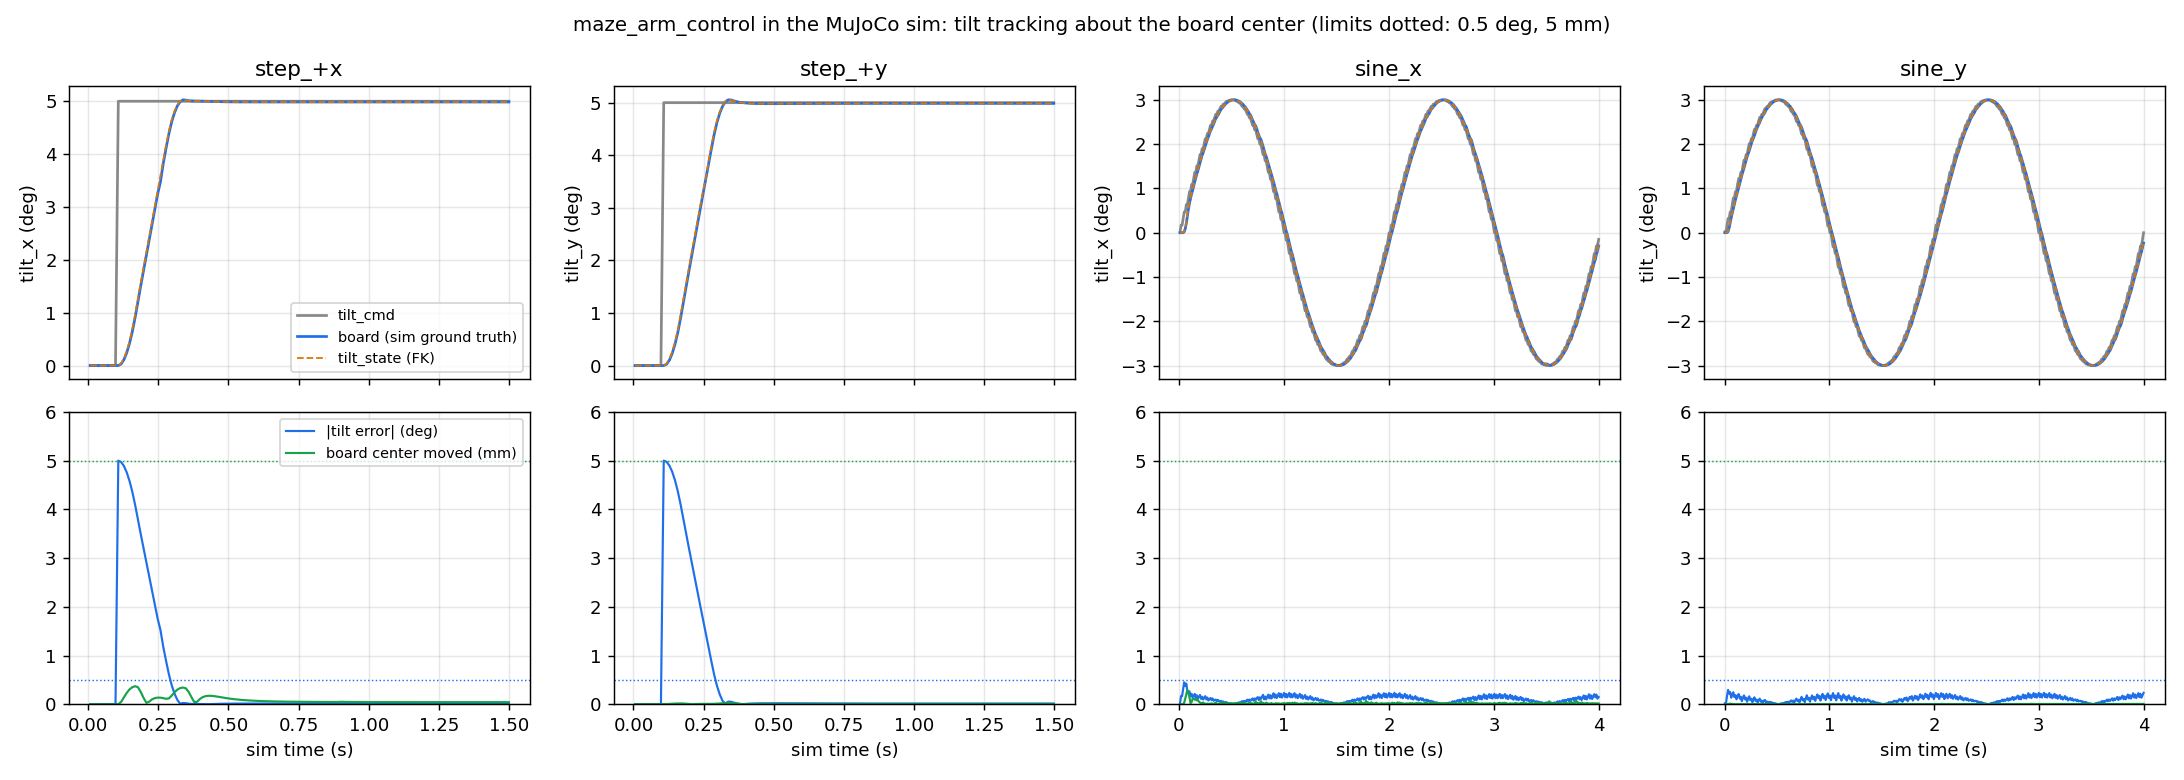
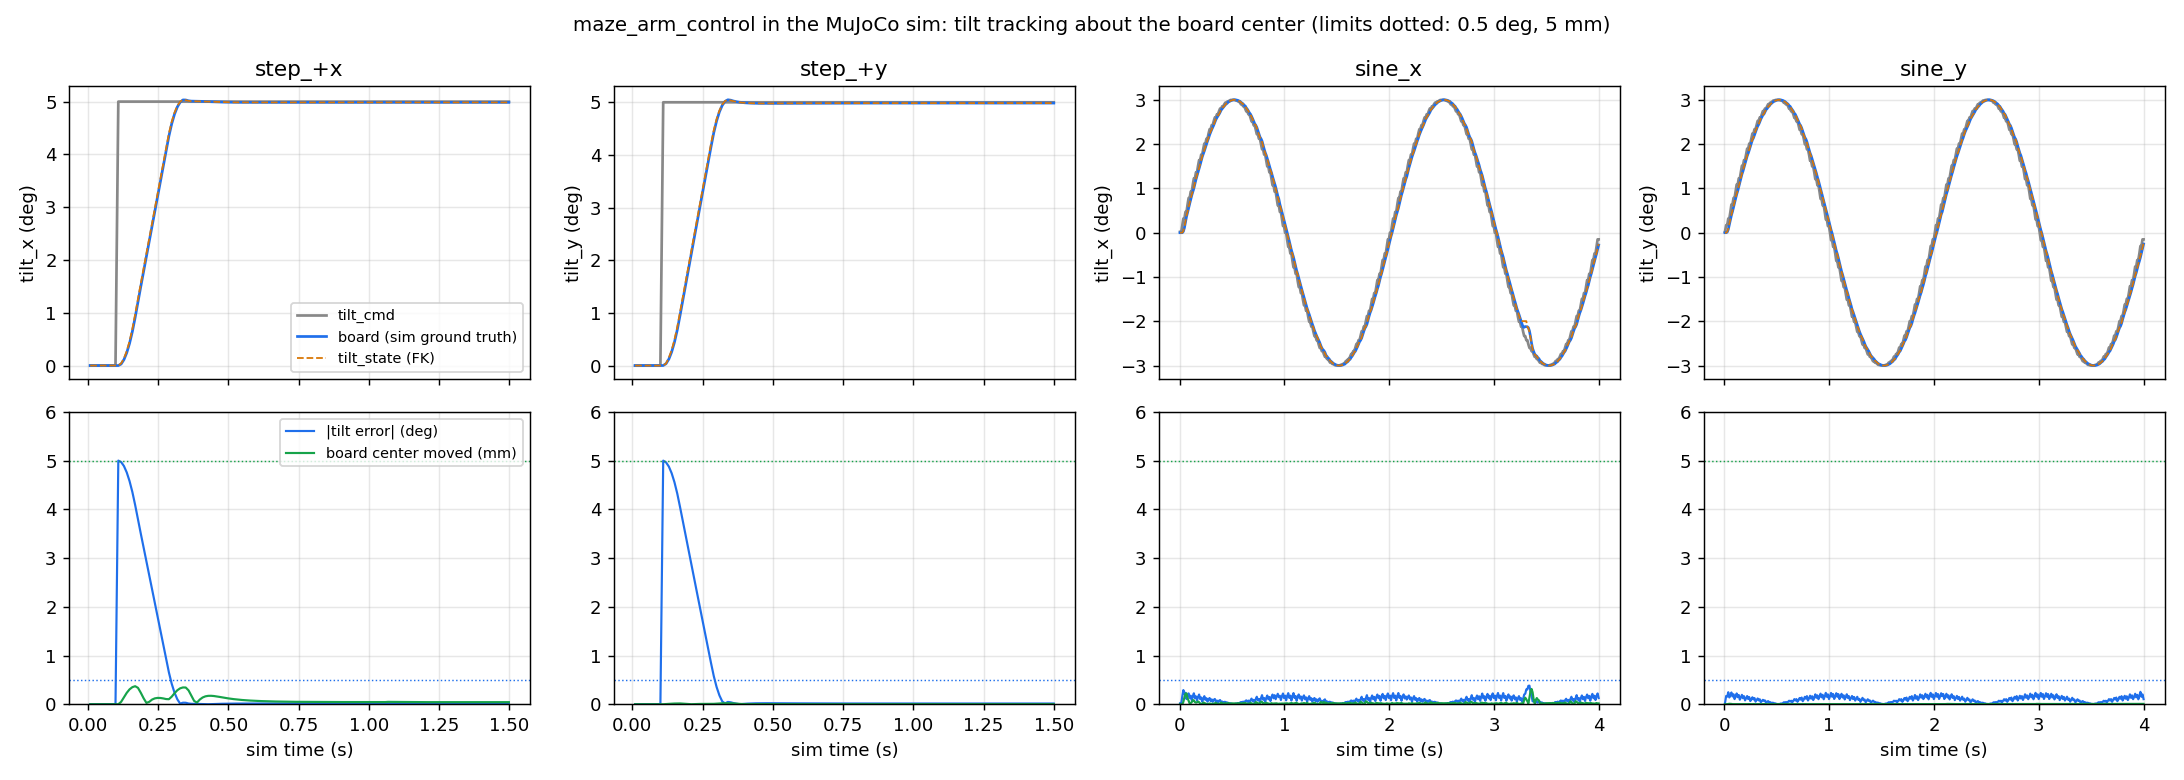
[arm] maze_arm_control: fixes from the whole-branch review
- resync starts the reference inside max_tilt (it could start past it and snap back at > 0.5 rad/s)
- the board's angular velocity is capped at the tilt-rate limit about each board axis, so a large
  tilt error is corrected no faster than 0.5 rad/s
- a lost controller_manager reply fails start-up after 5 s (retried while running) instead of
  wedging the node; late replies are dropped
- speed scaling older than 1 s holds the arm; zeros are flushed before exit; no resync log spam
- tests: reset outside the limit, per-axis board rate, lost service reply, a resume after drift

diff --git a/src/maze_arm_control/src/tilt_control_node.cpp b/src/maze_arm_control/src/tilt_control_node.cpp
@@ -18,6 +18,8 @@ const std::vector<std::string> kUrJoints = {
 namespace
 {
 constexpr double kPollPeriod = 1.0;   // s, how often the velocity controller is checked while running
+constexpr double kServiceTimeout = 5.0;  // s, a controller_manager reply later than this counts as lost
+constexpr double kScalingTimeout = 1.0;  // s, a speed scaling value older than this is not trusted
 constexpr double kMaxStepDt = 0.02;   // s, a longer gap between joint states is not integrated over
 constexpr double kDeg = M_PI / 180.0;
 
@@ -104,6 +106,7 @@ TiltControlNode::TiltControlNode(const rclcpp::NodeOptions & options)
   cp.lambda_max = required<double>("dls.lambda_max");
   cp.max_linear_speed = required<double>("twist_cap.linear");
   cp.max_angular_speed = required<double>("twist_cap.angular");
+  cp.max_tilt_rate = rp.max_rate;
   cp.max_joint_speed = to_vec<6>(required<DV>("joint_limits.max_speed"), "joint_limits.max_speed");
   cp.max_joint_accel = to_vec<6>(required<DV>("joint_limits.max_accel"), "joint_limits.max_accel");
   const double cmd_timeout = required<double>("watchdog.command_timeout");
@@ -139,7 +142,10 @@ TiltControlNode::TiltControlNode(const rclcpp::NodeOptions & options)
   use_speed_scaling_ = !topic_scaling.empty();
   if (use_speed_scaling_) {
     scaling_sub_ = create_subscription<std_msgs::msg::Float64>(
-      topic_scaling, rclcpp::QoS(1), [this](const std_msgs::msg::Float64 & m) {speed_scaling_ = m.data;});
+      topic_scaling, rclcpp::QoS(1), [this](const std_msgs::msg::Float64 & m) {
+        speed_scaling_ = m.data;
+        speed_scaling_received_ = now_steady();
+      });
   }
   list_cli_ = create_client<ListControllers>("/controller_manager/list_controllers");
   switch_cli_ = create_client<SwitchController>("/controller_manager/switch_controller");
@@ -160,7 +166,9 @@ Eigen::Vector2d TiltControlNode::measured_tilt() const
 
 bool TiltControlNode::speed_scaling_ok() const
 {
-  return !use_speed_scaling_ || (speed_scaling_ && *speed_scaling_ >= 0.999 * speed_scaling_full_);
+  return !use_speed_scaling_ ||
+         (speed_scaling_ && *speed_scaling_ >= 0.999 * speed_scaling_full_ &&
+         now_steady() - speed_scaling_received_ <= kScalingTimeout);
 }
 
 void TiltControlNode::publish_velocity(const Joints & qdot)
@@ -215,7 +223,7 @@ void TiltControlNode::on_joint_state(const sensor_msgs::msg::JointState & msg)
   const rclcpp::Time stamp(msg.header.stamp, get_clock()->get_clock_type());
   const bool jumped = q_ && joint_jump(*q_, *q, jump_threshold_);
   double dt = 0.0;
-  if (q_stamp_ && q_stamp_->get_clock_type() == stamp.get_clock_type()) {
+  if (q_stamp_) {
     dt = (stamp - *q_stamp_).seconds();
   }
   q_ = q;
@@ -247,6 +255,7 @@ void TiltControlNode::on_joint_state(const sensor_msgs::msg::JointState & msg)
   }
   if (!commanding_) {
     resync("commands resumed");  // start from where the arm stopped
+    commanding_ = true;
   }
   if (!(dt > 0.0) || dt > kMaxStepDt) {
     return;  // first, duplicate or late sample: next one
@@ -285,9 +294,33 @@ void TiltControlNode::fail(const std::string & why)
   RCLCPP_ERROR(get_logger(), "refusing to run: %s", why.c_str());  // main() exits on failed()
 }
 
+uint64_t TiltControlNode::begin_request()
+{
+  request_pending_ = true;
+  request_sent_ = now_steady();
+  return ++request_id_;
+}
+
+bool TiltControlNode::end_request(uint64_t id)
+{
+  if (id != request_id_ || !request_pending_) {
+    return false;  // a reply that already timed out
+  }
+  request_pending_ = false;
+  return true;
+}
+
 void TiltControlNode::on_timer()
 {
   const double t = now_steady();
+  if (request_pending_ && t - request_sent_ > kServiceTimeout) {
+    request_pending_ = false;  // a late reply is dropped by end_request()
+    if (phase_ == Phase::kSwitch) {
+      fail("/controller_manager did not answer within " + std::to_string(kServiceTimeout) + " s");
+      return;
+    }
+    RCLCPP_WARN(get_logger(), "/controller_manager did not answer the controller check; retrying");
+  }
   const bool fresh = state_received_ && t - *state_received_ <= state_timeout_;
   switch (phase_) {
     case Phase::kWaitState:
@@ -359,11 +392,13 @@ void TiltControlNode::request_switch()
     RCLCPP_INFO_THROTTLE(get_logger(), steady_, 5000, "waiting for /controller_manager");
     return;
   }
-  request_pending_ = true;
+  const auto id = begin_request();
   list_cli_->async_send_request(
     std::make_shared<ListControllers::Request>(),
-    [this](rclcpp::Client<ListControllers>::SharedFuture f) {
-      request_pending_ = false;
+    [this, id](rclcpp::Client<ListControllers>::SharedFuture f) {
+      if (!end_request(id)) {
+        return;
+      }
       if (phase_ == Phase::kSwitch) {
         on_list(*f.get());
       }
@@ -399,11 +434,10 @@ void TiltControlNode::on_list(const ListControllers::Response & res)
   }
   req->deactivate_controllers = deactivate;
   req->strictness = SwitchController::Request::STRICT;
-  request_pending_ = true;
+  const auto id = begin_request();
   switch_cli_->async_send_request(
-    req, [this](rclcpp::Client<SwitchController>::SharedFuture f) {
-      request_pending_ = false;
-      if (phase_ != Phase::kSwitch) {
+    req, [this, id](rclcpp::Client<SwitchController>::SharedFuture f) {
+      if (!end_request(id) || phase_ != Phase::kSwitch) {
         return;
       }
       if (!f.get()->ok) {
@@ -430,12 +464,11 @@ void TiltControlNode::poll_controller()
   if (request_pending_ || !list_cli_->service_is_ready()) {
     return;
   }
-  request_pending_ = true;
+  const auto id = begin_request();
   list_cli_->async_send_request(
     std::make_shared<ListControllers::Request>(),
-    [this](rclcpp::Client<ListControllers>::SharedFuture f) {
-      request_pending_ = false;
-      if (phase_ != Phase::kRunning) {
+    [this, id](rclcpp::Client<ListControllers>::SharedFuture f) {
+      if (!end_request(id) || phase_ != Phase::kRunning) {
         return;
       }
       for (const auto & c : f.get()->controller) {

diff --git a/src/maze_arm_control/test/test_node.cpp b/src/maze_arm_control/test/test_node.cpp
@@ -219,10 +219,18 @@ TEST_F(NodeTest, StartsTracksAndStopsOnTimeout)
   EXPECT_EQ(arm->qdot, Joints::Zero());
   EXPECT_EQ(node->phase(), TiltControlNode::Phase::kRunning);
 
-  // commands resume from where the arm is, without a jump
-  const Joints q_stop = arm->q;
-  run(0.02, Eigen::Vector2d(0.035, -0.02));
-  EXPECT_LT((arm->q - q_stop).cwiseAbs().maxCoeff(), 1e-3);
+  // the stopped arm drifts 1.7 deg of tilt_x about the board center; when commands resume the board
+  // eases back (acceleration-limited reference and joints, board-rate cap) instead of jumping
+  {
+    Eigen::Matrix<double, 6, 1> twist = Eigen::Matrix<double, 6, 1>::Zero();
+    twist.tail<3>() = kin.fk_board(arm->q).linear() * Eigen::Vector3d(0, 0.03, 0);  // about board +y
+    const auto J = kin.jacobian_board(arm->q);
+    arm->q += J.colPivHouseholderQr().solve(twist);
+  }
+  const Eigen::Vector2d before = maze_arm_control::tilt_of(home.linear(), kin.fk_board(arm->q).linear());
+  run(0.03, Eigen::Vector2d(0.035, -0.02));
+  const Eigen::Vector2d after = maze_arm_control::tilt_of(home.linear(), kin.fk_board(arm->q).linear());
+  EXPECT_LT((after - before).cwiseAbs().maxCoeff(), 0.005);
 }
 
 TEST_F(NodeTest, IgnoresNonFiniteCommand)
@@ -274,6 +282,35 @@ TEST_F(NodeTest, SimResetResyncsWithoutHomeCheck)
   const double off = (kin.fk_board(arm->q).translation() -
     kin.fk_board(test_support::home_joints()).translation()).norm();
   EXPECT_LT(off, 0.0005);  // pulled back to home
+}
+
+TEST_F(NodeTest, LostServiceReplyFails)
+{
+  // a controller manager that takes the request and never answers: no silent hang in start-up
+  start(test_support::home_joints());
+  exec.remove_node(arm);
+  arm.reset();  // services gone with the arm: replaced by ones that never reply
+  auto silent = std::make_shared<rclcpp::Node>("silent_cm");
+  std::vector<std::shared_ptr<rmw_request_id_t>> held;
+  auto list = silent->create_service<ListControllers>(
+    "/controller_manager/list_controllers",
+    [&held](std::shared_ptr<rmw_request_id_t> id, const ListControllers::Request::SharedPtr) {held.push_back(id);});
+  exec.add_node(silent);
+  auto js_pub = helper->create_publisher<sensor_msgs::msg::JointState>("/joint_states", 10);
+  const Joints q = test_support::home_joints();
+  const auto end = std::chrono::steady_clock::now() + 6.5s;
+  while (std::chrono::steady_clock::now() < end && node->phase() != TiltControlNode::Phase::kFailed) {
+    sensor_msgs::msg::JointState js;
+    js.header.stamp = helper->now();
+    js.name = maze_arm_control::kUrJoints;
+    js.position.assign(q.data(), q.data() + 6);
+    js_pub->publish(js);
+    exec.spin_some(1ms);
+    std::this_thread::sleep_for(2ms);
+  }
+  EXPECT_FALSE(held.empty());
+  EXPECT_EQ(node->phase(), TiltControlNode::Phase::kFailed);
+  exec.remove_node(silent);
 }
 
 TEST_F(NodeTest, HaltsWhenVelocityControllerGoesAway)

diff --git a/src/maze_arm_control/include/maze_arm_control/tilt_controller.hpp b/src/maze_arm_control/include/maze_arm_control/tilt_controller.hpp
@@ -1,6 +1,7 @@
 // Resolved-rate control of the board about its own center (remote pivot), damped least squares.
 //   e_p = p_home - p,  e_R = log(R_d R^T),  R_d = R_home * tilt_rotation(ref)        (base frame)
-//   twist = [k_pos e_p ; k_rot e_R + R_home (-rate_y, rate_x, 0)], each part capped in norm
+//   twist = [k_pos e_p ; k_rot e_R + R_d (-rate_y, rate_x, 0)], each part capped in norm, and the
+//   angular part scaled so the board turns no faster than max_tilt_rate about its own x and y
 //   qdot = J^T (J J^T + lambda^2 I)^-1 twist, lambda^2 = (1 - (s/sigma_min)^2) lambda_max^2 below sigma_min
 //   then the whole qdot is scaled to the joint speed limits, and the whole change from the previous
 //   qdot is scaled to the joint acceleration limits.
@@ -18,7 +19,8 @@ struct ControllerParams
   double k_pos, k_rot;                  // 1/s
   double sigma_min, lambda_max;         // DLS
   double max_linear_speed;              // m/s
-  double max_angular_speed;             // rad/s
+  double max_angular_speed;             // rad/s, norm
+  double max_tilt_rate;                 // rad/s about each board axis (the Contract 4 tilt-rate limit)
   Joints max_joint_speed;               // rad/s
   Joints max_joint_accel;               // rad/s^2
 };

diff --git a/src/maze_arm_control/test/test_controller_loop.cpp b/src/maze_arm_control/test/test_controller_loop.cpp
@@ -129,6 +129,27 @@ TEST(ControllerLoop, TwistIsCapped)
   EXPECT_GT(v.z(), 0.0);
 }
 
+TEST(ControllerLoop, BoardRateCappedPerAxis)
+{
+  // a large tilt error (e.g. after a sim reset that moved the board 3 deg): the board turns no faster
+  // than the 0.5 rad/s tilt-rate limit about either board axis
+  const auto kin = test_support::sim_kinematics();
+  auto cp = test_support::controller_params();
+  cp.max_joint_accel.setConstant(1e9);
+  const Joints q = test_support::home_joints();
+  const Eigen::Isometry3d home = kin.fk_board(q);
+  TiltController ctrl(kin, cp, home);
+  for (const Eigen::Vector2d & tilt : {Eigen::Vector2d(0.06, 0.0), Eigen::Vector2d(0.0, -0.06),
+      Eigen::Vector2d(0.06, 0.06)})
+  {
+    ctrl.reset();
+    const Joints qd = ctrl.step(q, tilt, {0, 0}, kDt);
+    const Eigen::Vector3d w_board = home.linear().transpose() * (kin.jacobian_board(q) * qd).tail<3>();
+    EXPECT_LE(w_board.head<2>().cwiseAbs().maxCoeff(), cp.max_tilt_rate + 1e-6) << tilt.transpose();
+    EXPECT_GT(w_board.head<2>().cwiseAbs().maxCoeff(), 0.9 * cp.max_tilt_rate) << tilt.transpose();
+  }
+}
+
 TEST(HomeCheck, AcceptsAndRejects)
 {
   Eigen::Isometry3d home = Eigen::Isometry3d::Identity();

diff --git a/src/maze_arm_control/src/tilt_control_node.hpp b/src/maze_arm_control/src/tilt_control_node.hpp
@@ -63,6 +63,8 @@ private:
   void on_list(const controller_manager_msgs::srv::ListControllers::Response & res);
   void start_running();
   void poll_controller();
+  uint64_t begin_request();
+  bool end_request(uint64_t id);  // false for a reply to an expired request
   void resync(const char * why);
   void fail(const std::string & why);
   void publish_velocity(const Joints & qdot);
@@ -86,11 +88,14 @@ private:
 
   Phase phase_ = Phase::kWaitState;
   bool request_pending_ = false;
+  double request_sent_ = 0.0;       // steady time of the pending controller_manager request
+  uint64_t request_id_ = 0;
   bool commanding_ = false;  // last cycle sent a control command (not zeros from the watchdog)
   std::optional<Joints> q_;
   std::optional<rclcpp::Time> q_stamp_;
   std::optional<Eigen::Vector2d> last_cmd_;
   std::optional<double> speed_scaling_;
+  double speed_scaling_received_ = 0.0;
   std::optional<double> state_received_;  // steady time of the last joint state
   double last_poll_ = 0.0;
   bool warned_ = false;  // the watchdog warning for the current stop was logged

diff --git a/src/maze_arm_control/src/tilt_controller.cpp b/src/maze_arm_control/src/tilt_controller.cpp
@@ -43,6 +43,14 @@ Joints TiltController::step(
   twist.tail<3>() = p_.k_rot * e_R + w_ff;
   diag_.twist_capped = cap_norm(twist.head<3>(), p_.max_linear_speed);
   diag_.twist_capped |= cap_norm(twist.tail<3>(), p_.max_angular_speed);
+  // the tilt-rate limit holds on the board itself, not only on the reference: a large tilt error
+  // (after a reset, say) is corrected no faster than max_tilt_rate about either board axis
+  const Eigen::Vector3d w_board = R_d.transpose() * twist.tail<3>();
+  const double over = w_board.head<2>().cwiseAbs().maxCoeff() / p_.max_tilt_rate;
+  if (over > 1.0) {
+    twist.tail<3>() /= over;
+    diag_.twist_capped = true;
+  }
 
   const Jacobian J = kin_.jacobian_board(q);
   const Eigen::JacobiSVD<Jacobian> svd(J);

diff --git a/src/maze_arm_control/src/tilt_control_main.cpp b/src/maze_arm_control/src/tilt_control_main.cpp
@@ -1,7 +1,9 @@
 // tilt_control: the node, with its own SIGINT handling so the last thing it sends is zero velocities
 // (the velocity controller keeps the last command it got).
 #include <atomic>
+#include <chrono>
 #include <csignal>
+#include <thread>
 
 #include "tilt_control_node.hpp"
 
@@ -31,7 +33,12 @@ int main(int argc, char ** argv)
   }
   const bool failed = node->failed();
   if (rclcpp::ok()) {
-    for (int i = 0; i < 3; ++i) {node->stop();}
+    // let the zeros go out before the context goes away
+    for (int i = 0; i < 5; ++i) {
+      node->stop();
+      exec.spin_some(std::chrono::milliseconds(10));
+      std::this_thread::sleep_for(std::chrono::milliseconds(10));
+    }
     rclcpp::shutdown();
   }
   return failed ? 1 : 0;

diff --git a/src/maze_arm_control/test/test_reference.cpp b/src/maze_arm_control/test/test_reference.cpp
@@ -125,3 +125,17 @@ TEST(Reference, FollowsARampWithLittleLag)
   const double tau = test_support::reference_params().smoothing_tau;
   EXPECT_LT(max_lag, 0.3 * (tau + 1.0 / 60.0) + 5e-4);
 }
+
+TEST(Reference, ResetOutsideTheLimitStartsInsideIt)
+{
+  // the arm can sit past max_tilt (a droop, an overshoot): the reference must not start there and then
+  // jump back inside at more than max_rate
+  const auto p = test_support::reference_params();
+  ReferenceShaper ref(p);
+  ref.reset({0.087 + 0.0105, -0.2});
+  EXPECT_LE(ref.value().cwiseAbs().maxCoeff(), p.max_tilt);
+  for (int i = 0; i < 200; ++i) {
+    ref.step(kDt);
+    EXPECT_LE(ref.rate().cwiseAbs().maxCoeff(), p.max_rate + 1e-9) << i;
+  }
+}

diff --git a/src/maze_arm_control/test/test_support.hpp b/src/maze_arm_control/test/test_support.hpp
@@ -64,6 +64,7 @@ inline maze_arm_control::ControllerParams controller_params()
   c.lambda_max = p["dls"]["lambda_max"].as<double>();
   c.max_linear_speed = p["twist_cap"]["linear"].as<double>();
   c.max_angular_speed = p["twist_cap"]["angular"].as<double>();
+  c.max_tilt_rate = p["limits"]["max_rate"].as<double>();
   c.max_joint_speed = vec<6>(p["joint_limits"]["max_speed"]);
   c.max_joint_accel = vec<6>(p["joint_limits"]["max_accel"]);
   return c;

diff --git a/src/maze_arm_control/src/reference.cpp b/src/maze_arm_control/src/reference.cpp
@@ -11,7 +11,8 @@ ReferenceShaper::ReferenceShaper(const ReferenceParams & params)
 
 void ReferenceShaper::reset(const Eigen::Vector2d & measured)
 {
-  command_ = filtered_ = value_ = measured;
+  // the arm may sit past max_tilt (a droop, an overshoot); the reference starts inside the limit
+  command_ = filtered_ = value_ = measured.cwiseMax(-p_.max_tilt).cwiseMin(p_.max_tilt);
   rate_.setZero();
   filtered_rate_.setZero();
 }

diff --git a/README.md b/README.md
@@ -391,7 +391,7 @@ python3 scripts/plot_trajectories.py   # rewrites docs/media/pid_trajectories.pn
 
 `maze_arm_control` turns `/board/tilt_cmd` into UR7e joint velocities on `/forward_velocity_controller/commands` so the board tilts about its own center (the remote pivot, ~0.325 m from the flange), and publishes `/board/tilt_state` from forward kinematics of `/joint_states` ([contract 4](docs/interfaces.md), #14). It is C++ (one control step per joint state, 500 Hz); `maze_arm`'s Python FK is the reference its FK is tested against.
 
-**Control law.** Resolved-rate control with damped least squares: the twist of the board frame is `k·(pose error)` plus the reference's angular velocity as feed-forward, the center held at its home position; `qdot = Jᵀ(JJᵀ + λ²I)⁻¹·twist`, with λ growing only near a singularity. The command is clamped to 0.087 rad, low-passed (15 ms) and followed with a 0.5 rad/s rate limit and an 8 rad/s² acceleration limit that brakes in time to stop on the command (an abrupt stop at the end of a ramp made the lagging arm overshoot 5° steps by 1°); the twist is capped and `qdot` is scaled to the joint speed and acceleration limits. All values are in [`config/tilt_control.yaml`](src/maze_arm_control/config/tilt_control.yaml); every key is required.
+**Control law.** Resolved-rate control with damped least squares: the twist of the board frame is `k·(pose error)` plus the reference's angular velocity as feed-forward, the center held at its home position; `qdot = Jᵀ(JJᵀ + λ²I)⁻¹·twist`, with λ growing only near a singularity. The command is clamped to 0.087 rad, low-passed (15 ms) and followed with a 0.5 rad/s rate limit and an 8 rad/s² acceleration limit that brakes in time to stop on the command (an abrupt stop at the end of a ramp made the lagging arm overshoot 5° steps by 1°); the twist is capped the board turns no faster than 0.5 rad/s about either of its axes (also while correcting a large error), and `qdot` is scaled to the joint speed and acceleration limits. All values are in [`config/tilt_control.yaml`](src/maze_arm_control/config/tilt_control.yaml); every key is required.
 
 **Safety.** A steady-clock watchdog sends zero velocities when no `tilt_cmd` arrives for 200 ms or the joint states are older than 20 ms (the velocity controller has no timeout of its own). At start the node waits for fresh joint states, refuses to run if the board is more than 5 mm or 1° from the home pose (`home_joints`, the level pose), switches to `forward_velocity_controller` with STRICT and checks the result, and starts the reference from the measured tilt. A joint jump or `/sim/reset_done` resyncs (no new home check after a sim reset: see below); the velocity controller found inactive halts the node.
 

diff --git a/docs/superpowers/plans/2026-11-20-a1-tilt-control.md b/docs/superpowers/plans/2026-11-20-a1-tilt-control.md
@@ -107,3 +107,7 @@ Steps: write tests -> run in distrobox -> plot -> commit.
 - `/sim/reset_done`: re-check the controllers and resync, no new home check. Switching to the velocity controller
   makes the sim arm droop ~5 mm / 0.6 deg, and a reset with the velocity controller active leaves the arm where it
   was; a home check there refused to run. The home check stays at first start.
+- After the whole-branch review: the reference starts inside max_tilt on a resync; the board's angular velocity
+  is capped at max_rate about each board axis (the twist cap alone allowed 1 rad/s while correcting a large
+  error); a controller_manager reply later than 5 s fails start-up (or is retried while running) instead of
+  hanging; a stale speed scaling value (> 1 s) holds the arm; zeros are flushed before exit.
